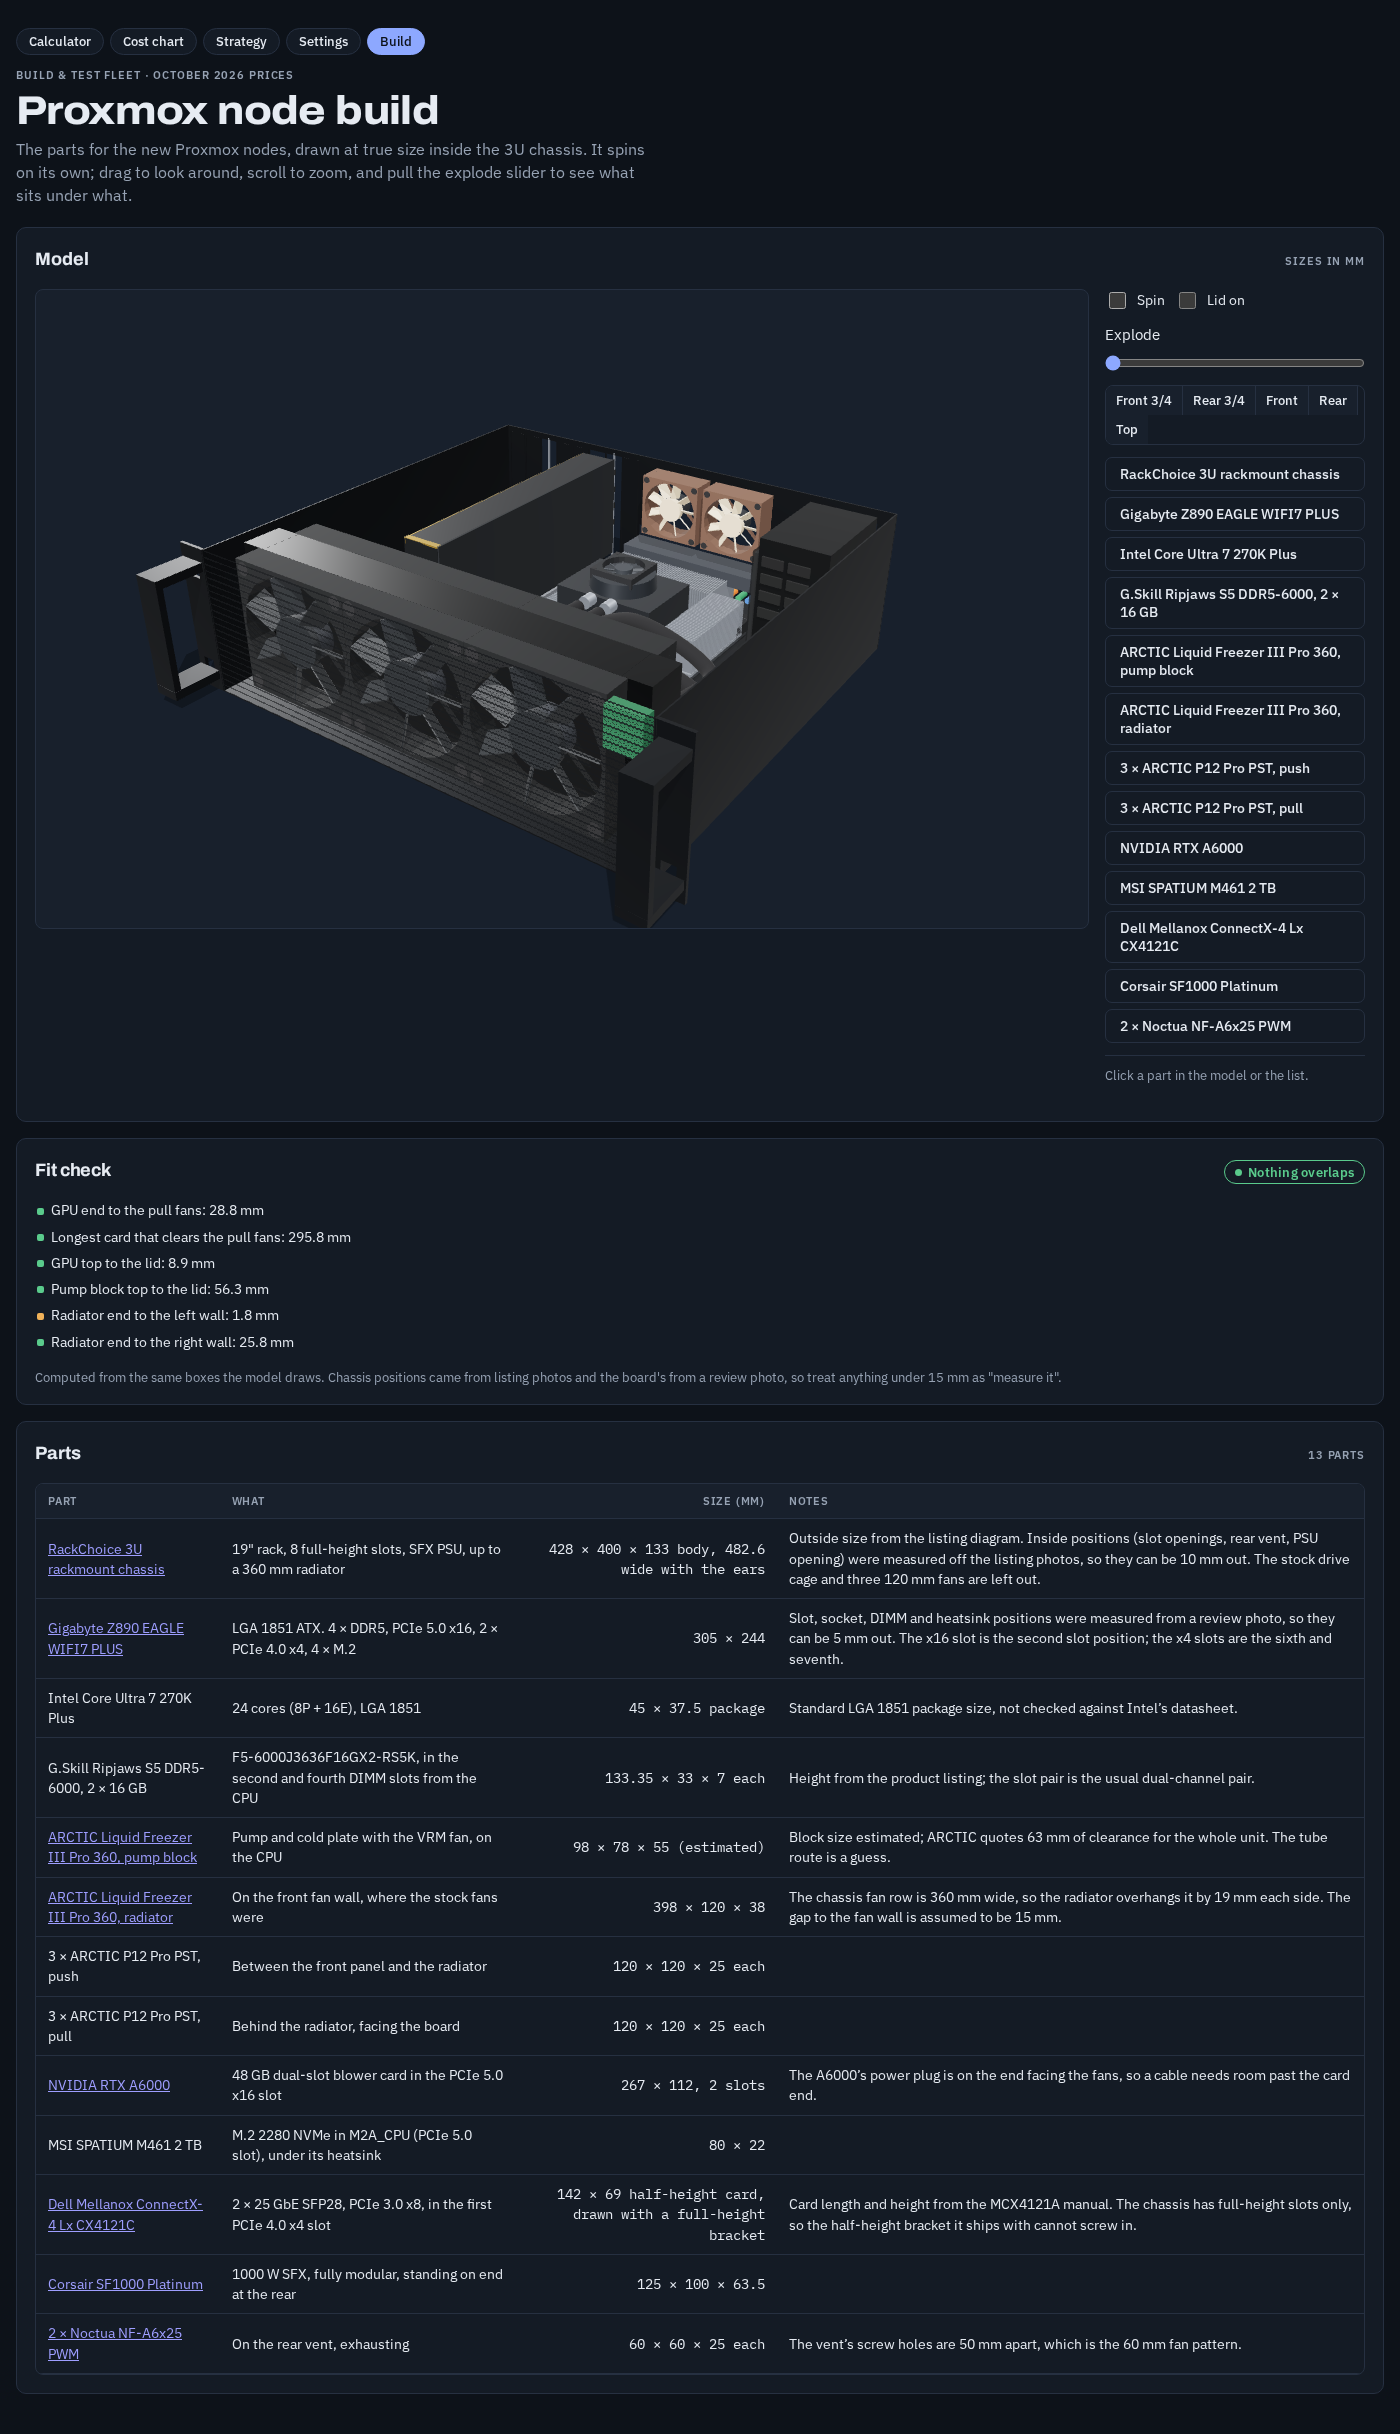
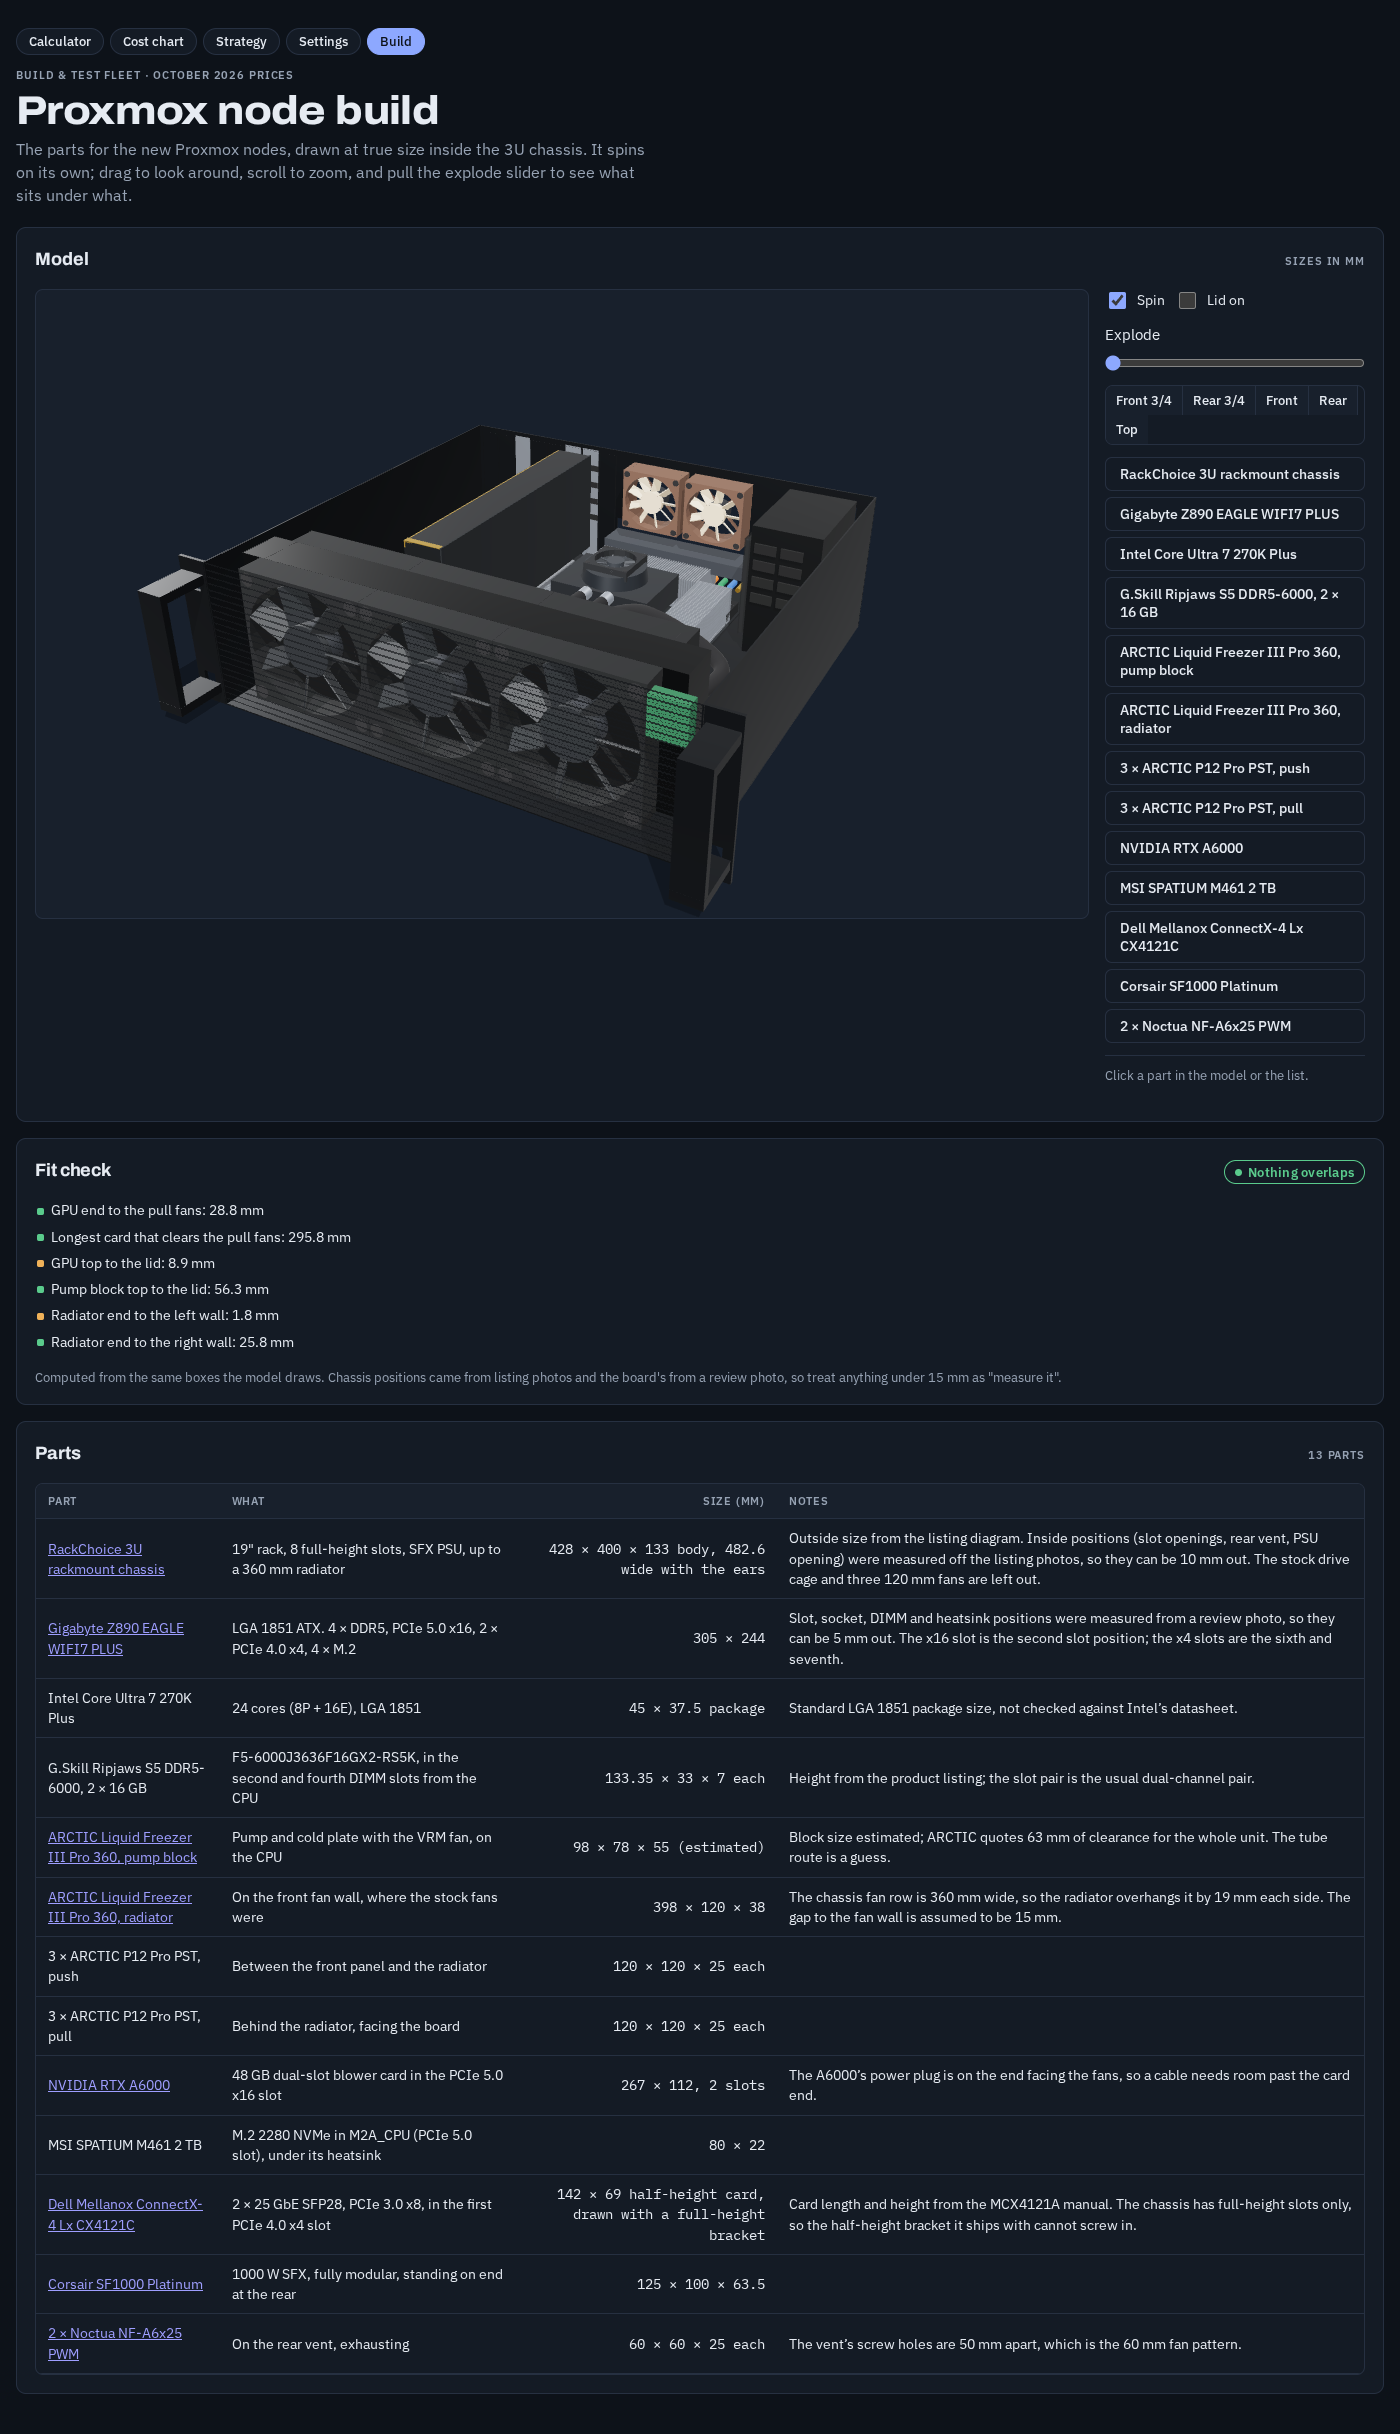
no-mistakes(review): Fix brackets, tubes, camera framing, docs, retake screenshots

Changed region(s): [[0.0921, 0.1561, 0.6143, 0.3435], [0.4914, 0.3435, 0.5221, 0.3747]]

diff --git a/src/lib/build/layout.ts b/src/lib/build/layout.ts
@@ -91,9 +91,10 @@ export function layout(): Box[] {
   b.push(box('vrm-top', 'board', 'solid', [bx(155), BY, bz(14)], [bx(36), 41, bz(65)]));
   b.push(box('vrm-right', 'board', 'solid', [bx(36), BY, bz(65)], [bx(2), 44, bz(160)]));
   b.push(centred('socket', 'board', 'solid', [bx(97), BY + 3.5, bz(121)], [52, 7, 45]));
-  for (const k of [GPU_SLOT, 2, NIC_SLOT, 6]) b.push(box(`pcie-${k}`, 'board', 'solid', [slotX(k) - 3.75, BY, bz(39)], [slotX(k) + 3.75, BY + 11.4, bz(125)]));
+  for (const k of [GPU_SLOT, NIC_SLOT, 6]) b.push(box(`pcie-${k}`, 'board', 'solid', [slotX(k) - 3.75, BY, bz(39)], [slotX(k) + 3.75, BY + 11.4, bz(125)]));
   const dimmZ = [169, 179, 189, 199].map(bz);
   dimmZ.forEach((z, i) => b.push(box(`dimm-${i}`, 'board', 'solid', [bx(167), BY, z - 3.5], [bx(31), BY + 9, z + 3.5])));
+  // The Gen5 heatsink is a shell because the SSD sits inside it.
   b.push(box('m2a-heatsink', 'board', 'shell', [bx(179), BY, bz(27)], [bx(153), 22, bz(152)], up(90)));
   b.push(box('m2-shroud', 'board', 'solid', [bx(257), BY, bz(27)], [bx(194), 17, bz(152)]));
   b.push(box('m2-plate', 'board', 'solid', [bx(260), BY, bz(152)], [bx(194), 15, bz(224)]));
@@ -115,10 +116,10 @@ export function layout(): Box[] {
   const cardY = BY + 11.4;
   const gx = slotX(GPU_SLOT);
   b.push(box('gpu', 'gpu', 'solid', [gx - 38, cardY, bz(0)], [gx + 1, cardY + 111.76 - 9.4, bz(267)], up(90)));
-  b.push(box('gpu-bracket', 'gpu', 'shell', [gx - 1, 9, -D / 2], [gx + 1, 129, -D / 2 + T], up(90)));
+  for (const k of [GPU_SLOT, GPU_SLOT + 1]) b.push(box(`gpu-bracket-${k}`, 'gpu', 'shell', [slotX(k) - 9, 9, -D / 2], [slotX(k) + 9, 129, -D / 2 + T], up(90)));
   const nx = slotX(NIC_SLOT);
   b.push(box('nic', 'nic', 'solid', [nx - 8, cardY, bz(0)], [nx + 1, cardY + 68.9 - 9.4, bz(142)], up(90)));
-  b.push(box('nic-bracket', 'nic', 'shell', [nx - 1, 9, -D / 2], [nx + 1, 129, -D / 2 + T], up(90)));
+  b.push(box('nic-bracket', 'nic', 'shell', [nx - 9, 9, -D / 2], [nx + 9, 129, -D / 2 + T], up(90)));
 
   // PSU on end in the rear-right corner, modular face toward the front.
   b.push(box('psu', 'psu', 'solid', [X(348), T, ZR(T)], [X(348 + 63.5), T + 125, ZR(T + 100)], [60, 0, -90]));

diff --git a/src/scripts/build.ts b/src/scripts/build.ts
@@ -22,6 +22,7 @@ try {
   renderer = new THREE.WebGLRenderer({ antialias: true, alpha: true });
 } catch {
   noWebgl.hidden = false;
+  document.querySelector<HTMLElement>('.build-side')!.hidden = true;
   throw new Error('WebGL unavailable');
 }
 renderer.setPixelRatio(Math.min(devicePixelRatio, 2));
@@ -72,12 +73,15 @@ const VIEWS: Record<string, [number, number, number]> = {
   rear: [0, 200, -1200],
   top: [0, 1300, 1],
 };
+const VIEW_ASPECT = 1.5;
+let viewName = 'iso';
 function setView(name: string) {
+  viewName = name;
   const p = VIEWS[name] ?? VIEWS.iso;
-  camera.position.set(p[0], p[1], p[2]);
+  const scale = Math.max(1, VIEW_ASPECT / camera.aspect);
+  camera.position.set(p[0], p[1], p[2]).sub(controls.target).multiplyScalar(scale).add(controls.target);
   controls.update();
 }
-setView('iso');
 
 const reduceMotion = matchMedia('(prefers-reduced-motion: reduce)').matches;
 spin.checked = !reduceMotion;
@@ -89,6 +93,7 @@ controls.addEventListener('start', () => {
 });
 
 explode.addEventListener('input', () => model.setExplode(Number(explode.value) / 100));
+model.setExplode(Number(explode.value) / 100);
 lidBox.addEventListener('change', () => model.setLid(lidBox.checked));
 model.setLid(lidBox.checked);
 document.querySelectorAll<HTMLButtonElement>('button[data-view]').forEach((b) => b.addEventListener('click', () => setView(b.dataset.view!)));
@@ -135,6 +140,7 @@ function resize() {
   renderer.setSize(w, h, false);
   camera.aspect = w / h;
   camera.updateProjectionMatrix();
+  setView(viewName);
 }
 new ResizeObserver(resize).observe(view);
 resize();

diff --git a/src/lib/build/scene.ts b/src/lib/build/scene.ts
@@ -50,8 +50,8 @@ export function buildModel(): Built {
     tubes.forEach((t, i) => {
       const dy = i ? 14 : -14;
       const dx = i ? 11 : -11;
-      const start = new THREE.Vector3(rb.max.x - 12, (rb.min.y + rb.max.y) / 2 + dy, rb.min.z - 11);
-      const end = new THREE.Vector3((pb.min.x + pb.max.x) / 2 + dx, pb.max.y - 22, pb.max.z + 8);
+      const start = new THREE.Vector3(rb.max.x - 12, (rb.min.y + rb.max.y) / 2 + dy, rb.min.z);
+      const end = new THREE.Vector3((pb.min.x + pb.max.x) / 2 + dx, pb.max.y - 22, pb.max.z);
       const curve = new THREE.CatmullRomCurve3([
         start,
         start.clone().add(new THREE.Vector3(0, 0, -45)),

diff --git a/src/lib/build/parts.ts b/src/lib/build/parts.ts
@@ -1,5 +1,5 @@
 /** Detailed geometry for each layout box. A builder gets the box size (w, h, d in mm) and returns a group
- *  centred on the box, in world axes (x right, y up, z toward the front). Anything without a builder is a box. */
+ *  centred on the box, in world axes (x right, y up, z toward the front). */
 import * as THREE from 'three';
 import { slotX } from './layout';
 

diff --git a/README.md b/README.md
@@ -4,11 +4,13 @@ Compare how many cloud-backed coding agents a machine can carry at once, what ea
 
 **Live site:** [dbeihl.github.io/agent-slot-calculator](https://dbeihl.github.io/agent-slot-calculator/) · [cost chart](https://dbeihl.github.io/agent-slot-calculator/costs/)
 
-The site has four pages. The calculator evaluates one machine in detail. The cost chart (`/costs/`) plots every machine's lifetime cost per agent against what one box costs over its life, under the settings last used in the calculator. It covers the report's presets, sourced market listings and machines you add, filters by condition, type, memory and budget, marks the cheapest per-agent option at each budget, and links each machine back to the calculator. [Market data](docs/market-data.md) explains the sources and the weekly eBay price refresh.
+The site has five pages. The calculator evaluates one machine in detail. The cost chart (`/costs/`) plots every machine's lifetime cost per agent against what one box costs over its life, under the settings last used in the calculator. It covers the report's presets, sourced market listings and machines you add, filters by condition, type, memory and budget, marks the cheapest per-agent option at each budget, and links each machine back to the calculator. [Market data](docs/market-data.md) explains the sources and the weekly eBay price refresh.
 
 The strategy page (`/strategy/`) starts from your situation instead: cash on hand, the agents you want, whether you would finance and at what rate, a monthly limit, and whether used machines or rack servers are acceptable. It searches fleets of catalog machines and compares four strategies side by side (cash only, finance the rest, grow in stages, lowest monthly bill) with up-front, monthly and lifetime costs, then recommends one.
 
 The settings page (`/settings/`) holds the default prices for build parts and RAM sticks, saved in your browser. Machines priced from parts, like the Micro Center bundles, use them on every page, and the RAM prices set what it costs to take a bundle past its stock memory.
+
+The build page (`/build/`) draws the parts of the Proxmox node build at true size inside their 3U chassis, with a fit check computed from the same boxes the model draws.
 
 ## Run locally
 

diff --git a/docs/personas.md b/docs/personas.md
@@ -28,7 +28,7 @@ Journey: `e2e/calculator.spec.ts`. Exercise both themes, reduced motion, keyboar
 
 Assembles the Proxmox node and wants to see that the parts fit the chassis before ordering. Spins the model, pulls the explode slider, picks a part to read its size and where the size came from, and reads the fit check.
 
-Journey: `e2e/build.spec.ts`. See the model and a clean fit check, pick the PSU from the parts table, switch to the rear view with the pick kept, and confirm no horizontal scroll at 400px.
+Journey: `e2e/build.spec.ts`. See the model and a clean fit check, pick the PSU from the parts list, switch to the rear view with the pick kept, and confirm no horizontal scroll at 400px.
 
 ## Test boundaries
 
